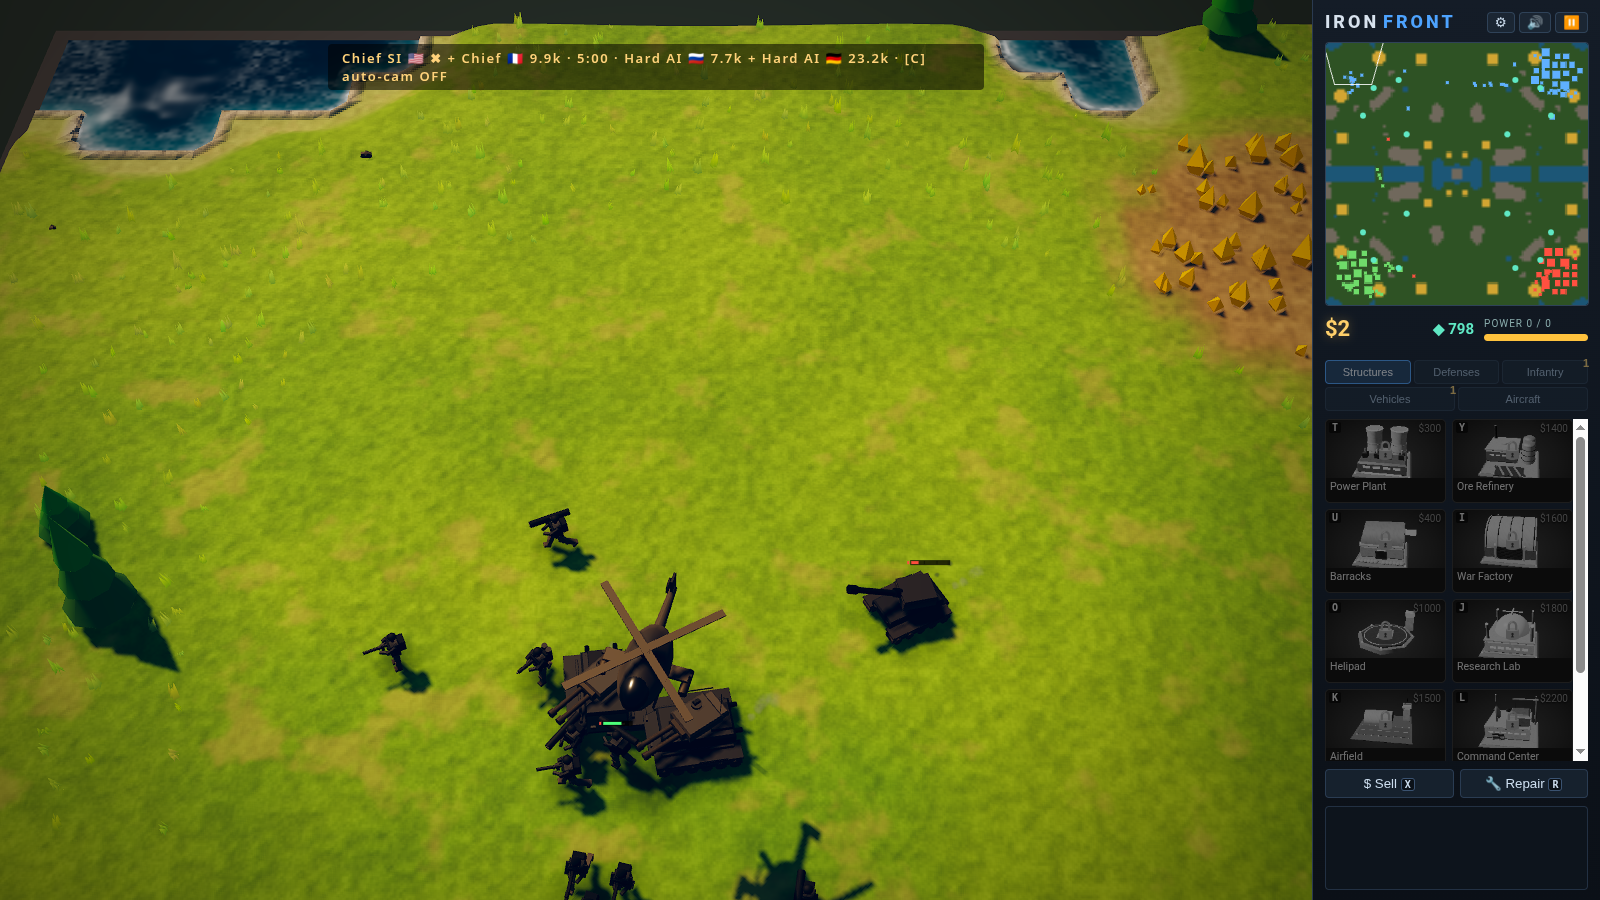
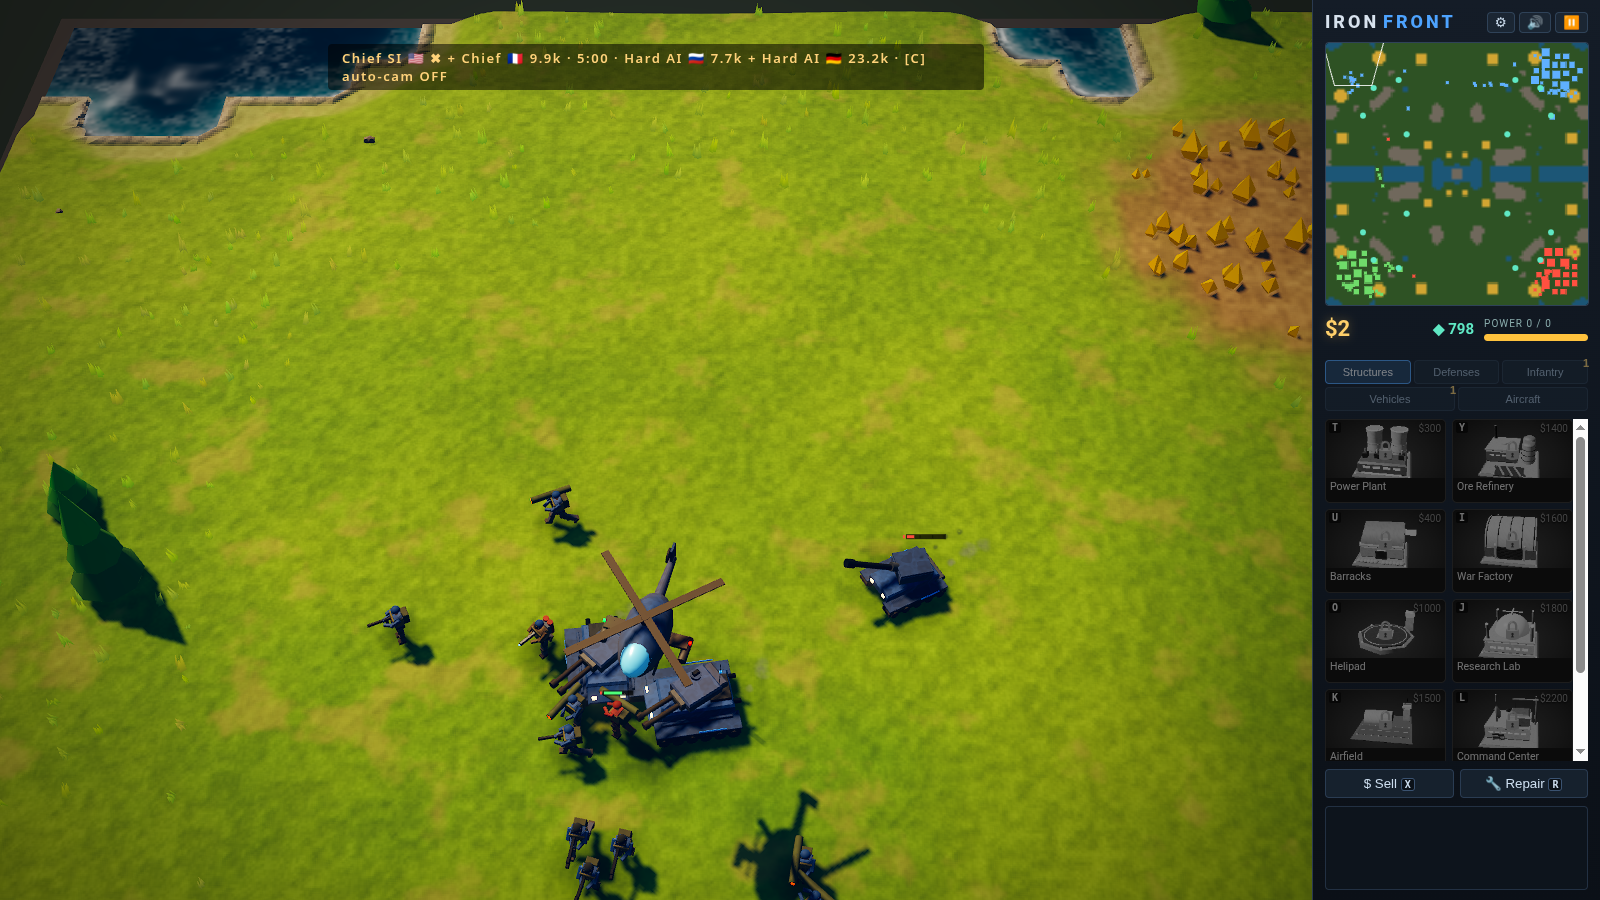
v4.1 docs, lobby polish, screenshots

diff --git a/js/online.js b/js/online.js
@@ -43,7 +43,7 @@ function onlCode() { const A = 'ABCDEFGHJKLMNPQRSTUVWXYZ23456789'; let s = ''; f
 function onlStatus(t) { const e = document.getElementById('onStatus'); if (e) e.innerHTML = t; }
 function onlChatLine(t) { const e = document.getElementById('chatLog'); if (!e) return; const d = document.createElement('div'); d.textContent = t; e.appendChild(d); e.scrollTop = 1e9; }
 function onlName() { const v = (document.getElementById('pname').value || '').trim().slice(0, 16); if (v) localStorage.setItem('if_name', v); return v || 'Commander' + ((Math.random() * 90 + 10) | 0); }
-function onlShowPanel(on) { document.getElementById('onPanel').style.display = on ? 'block' : 'none'; document.getElementById('presets').style.display = on ? 'none' : ''; }
+function onlShowPanel(on) { ['hostBtn', 'joinBtn'].forEach(id => document.getElementById(id).disabled = on); document.getElementById('onPanel').style.display = on ? 'block' : 'none'; document.getElementById('presets').style.display = on ? 'none' : ''; }
 // ---- host ----
 function onlHost() {
   if (!onlAvailable()) { onlStatus('Online play unavailable (network library failed to load).'); return; }

diff --git a/ROADMAP.md b/ROADMAP.md
@@ -86,7 +86,35 @@
 - Units still overlap a bit in big crowds. Jams are reduced, not eliminated.
 - Gunships have no proper landing/rearm. There are no walls in the UI, and engineers only capture.
 
-## Next steps
+### v4.1 – Online multiplayer (lockstep P2P)
+- **Commands:** all player input (move, attack, formation, stance, queue/cancel, place, sell, repair, rally, upgrade, ping, surrender) goes through `NET.issue()` and is executed by `execCmd(team, cmd)` in `js/net.js`. Offline, a command executes immediately. Online, it is scheduled for tick + 4.
+- **Lockstep (host relay):**
+  - Each human sends its input for a tick (empty turns too). The host merges them and broadcasts the turn, and every peer executes it before `stepGame()`.
+  - A peer that lags makes everyone show "Waiting for <name>…".
+  - The sim keeps running in hidden tabs (interval fallback).
+  - Disconnects: if a client drops, the host injects a deterministic `drop` command and a Medium AI takes the slot. If the host drops, clients continue offline against AI.
+- **Determinism:**
+  - `dsin/dcos/datan2/dhypot` (only + − × ÷ and sqrt) replace Math.* in sim/ai.
+  - All randomness uses the seeded xorshift RNG.
+  - Every 30 ticks an FNV state hash (exact float bits) is checked by the host; a mismatch shows a "Desync detected" banner.
+  - The version hash (from the sim function sources) is checked when joining.
+- **Lobby:**
+  - Host online game / Join with code / `?room=CODE` share link. The host assigns 4 slots (Human you / Human remote / Chief SI / Chief / Easy / Medium / Hard / Closed), teams, factions and colours.
+  - Remote players are auto-seated, pick their faction, and Ready up; the host can only start when everyone is ready.
+  - Lobby chat. Surrender in the Esc menu.
+- **Transport:** Trystero (Nostr signalling + WebRTC) is vendored as a classic IIFE in `vendor/trystero-nostr.js`. Relays and TURN can be set in `js/net-config.js` or with `?relays=`. `?transport=local` uses BroadcastChannel for 2-tab testing.
+- **Team colours:** Blue / Red / Yellow / Green are selectable per slot and unique. They apply to paint, accents, minimap and UI.
+- **Local-player perspective (`ME`):** the UI and renderer no longer assume team 0. The end result is computed per alliance.
+- **Fix (v4.0 regression):** units rendered almost black. The ore's per-instance colour switched the shared PBR material to an instanceColor shader program, so other instanced meshes got a zero colour. Ore now has its own material.
+- GitHub Pages ready: relative paths, `.nojekyll`, README "Play online with friends".
+
+## Next (v4.2+)
+- Real-network soak test on GitHub Pages: WebRTC could not run in this sandbox. Tested with the node fake transport and two real Chrome tabs over BroadcastChannel.
+- Adaptive input delay (measure RTT, 3–8 ticks); reconnect/rejoin; spectators; in-game chat.
+- Client colour choice in lobby (host sets it today), map select, 2v2 balance (2v2 sims eliminate too fast).
+- Optional: replay files (the command log + seed already reproduce a game exactly).
+
+## Older next-steps steps
 1. A second faction with unique units and superweapon(s), plus a skirmish map selection/generator.
 2. Soft particles + depth-based SSAO (needs a depth pre-pass), GPU-timer-driven dynamic resolution.
 3. Flow-field pathing for large groups; formations with facing; unit veterancy.

diff --git a/NOTES.md b/NOTES.md
@@ -47,3 +47,18 @@ Headless: `node test/sim-test.js`; Chrome: `google-chrome --headless=new --use-a
 - Lobby: main.js has SLOT_TYPES, PRESETS, buildSlots(), lobbyInit() and lobbyRead(). Use `?preset=coop|wsi|w1|w2|duel` and `&ff=secs&auto=1&nofog=1&cx=&cy=&zoom=` for testing.
 - AI: aiGrowth() and aiSite() handle expansions and growth; aiFocus() and aiPing() handle ally cooperation; huntTarget() handles search. siExtras() can be ablated with globalThis.SIOFF flags.
 - Events: placed, eliminated, allyAck, popcap. Announcer: announce(text, key, gap) in ui.js. History: G.hist (every 10 s) feeds the end graph.
+
+## v4.1 networking architecture
+- `js/net.js` (no DOM; loaded in node tests too):
+  - `CMD` table + `execCmd(team, cmd)`. Commands reference entities by id, and ownership is checked at execution.
+  - `NET` holds the lockstep state. `issue()` and `begin(transport, {host, me, humans, peerTeam, hostPeer})`.
+  - `ready()` is true when a turn exists for `G.tick + 1`. `tick()` sends my input for t+DELAY, executes the turn's commands, then `stepGame()`, and hashes every 30 ticks.
+  - The host collects `inputs[t][team]`, finalizes once every non-dropped human has sent, and broadcasts `turn`.
+- Transport interface: `{ send(type, data, toPeer?), on(type, cb(data, fromPeer)), onLeave(cb(peer)) }`. `js/online.js` adapts Trystero rooms (actions: lobby/hello/ready/pref/chat/start/kick/in/turn/hash/desync). The node test supplies an in-memory laggy transport.
+- **Rules for sim code:**
+  - Use `dsin/dcos/datan2/dhypot`, never Math.sin/cos/atan2/hypot/pow/exp.
+  - Never use Math.random or Date in sim/ai.
+  - UI code must not mutate entities or consume `G.R`. Predict with pure helpers (`canEnqueue`, `canPlace`, `canUpgrade`) and issue commands.
+- `ME` (data.js) = local player index for UI/render (`G.vis = G.visT[ME]`). Sim decisions never depend on ME, except the `G.over` string; the over tick itself is alliance-based, so it's identical on all peers.
+- Main loop: `simAdvance(dt, maxN)` steps through `NET.tick()`, with catch-up when turns pile up. `netOverlay` shows waiting/desync/status.
+- Tests: `node test/net-test.js [min]` and `MODE=local node --experimental-websocket test/online-e2e.js`.
